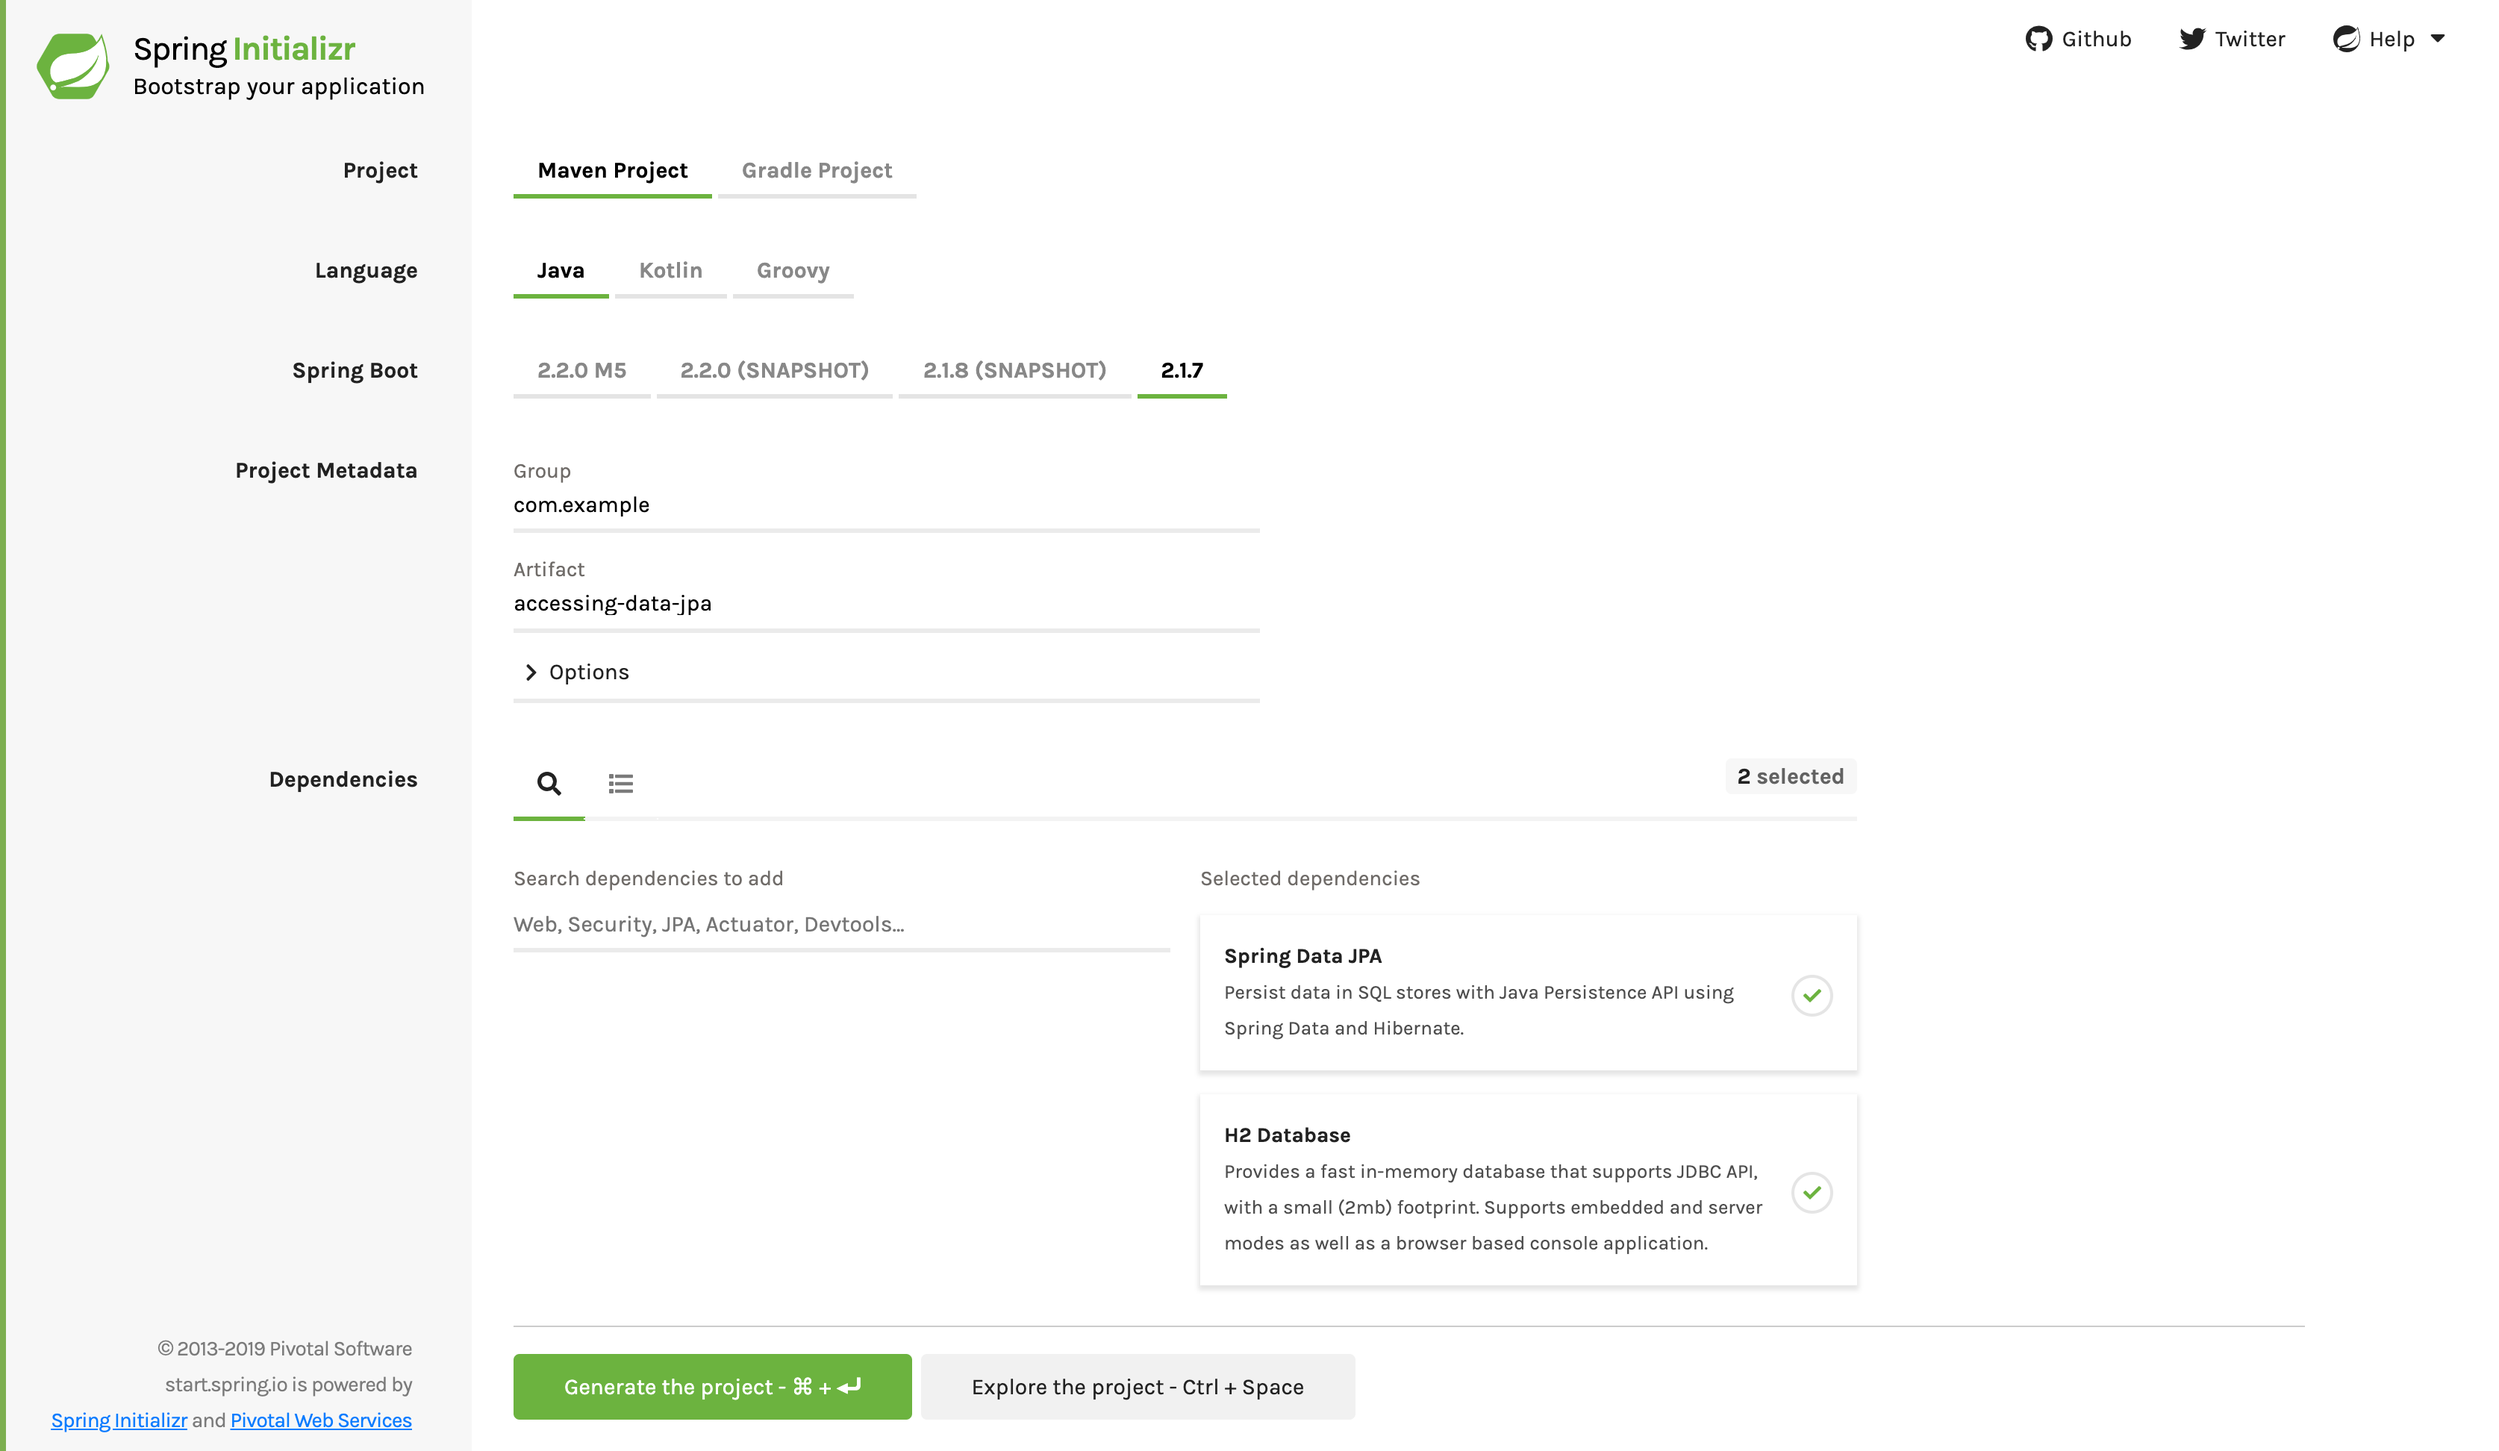
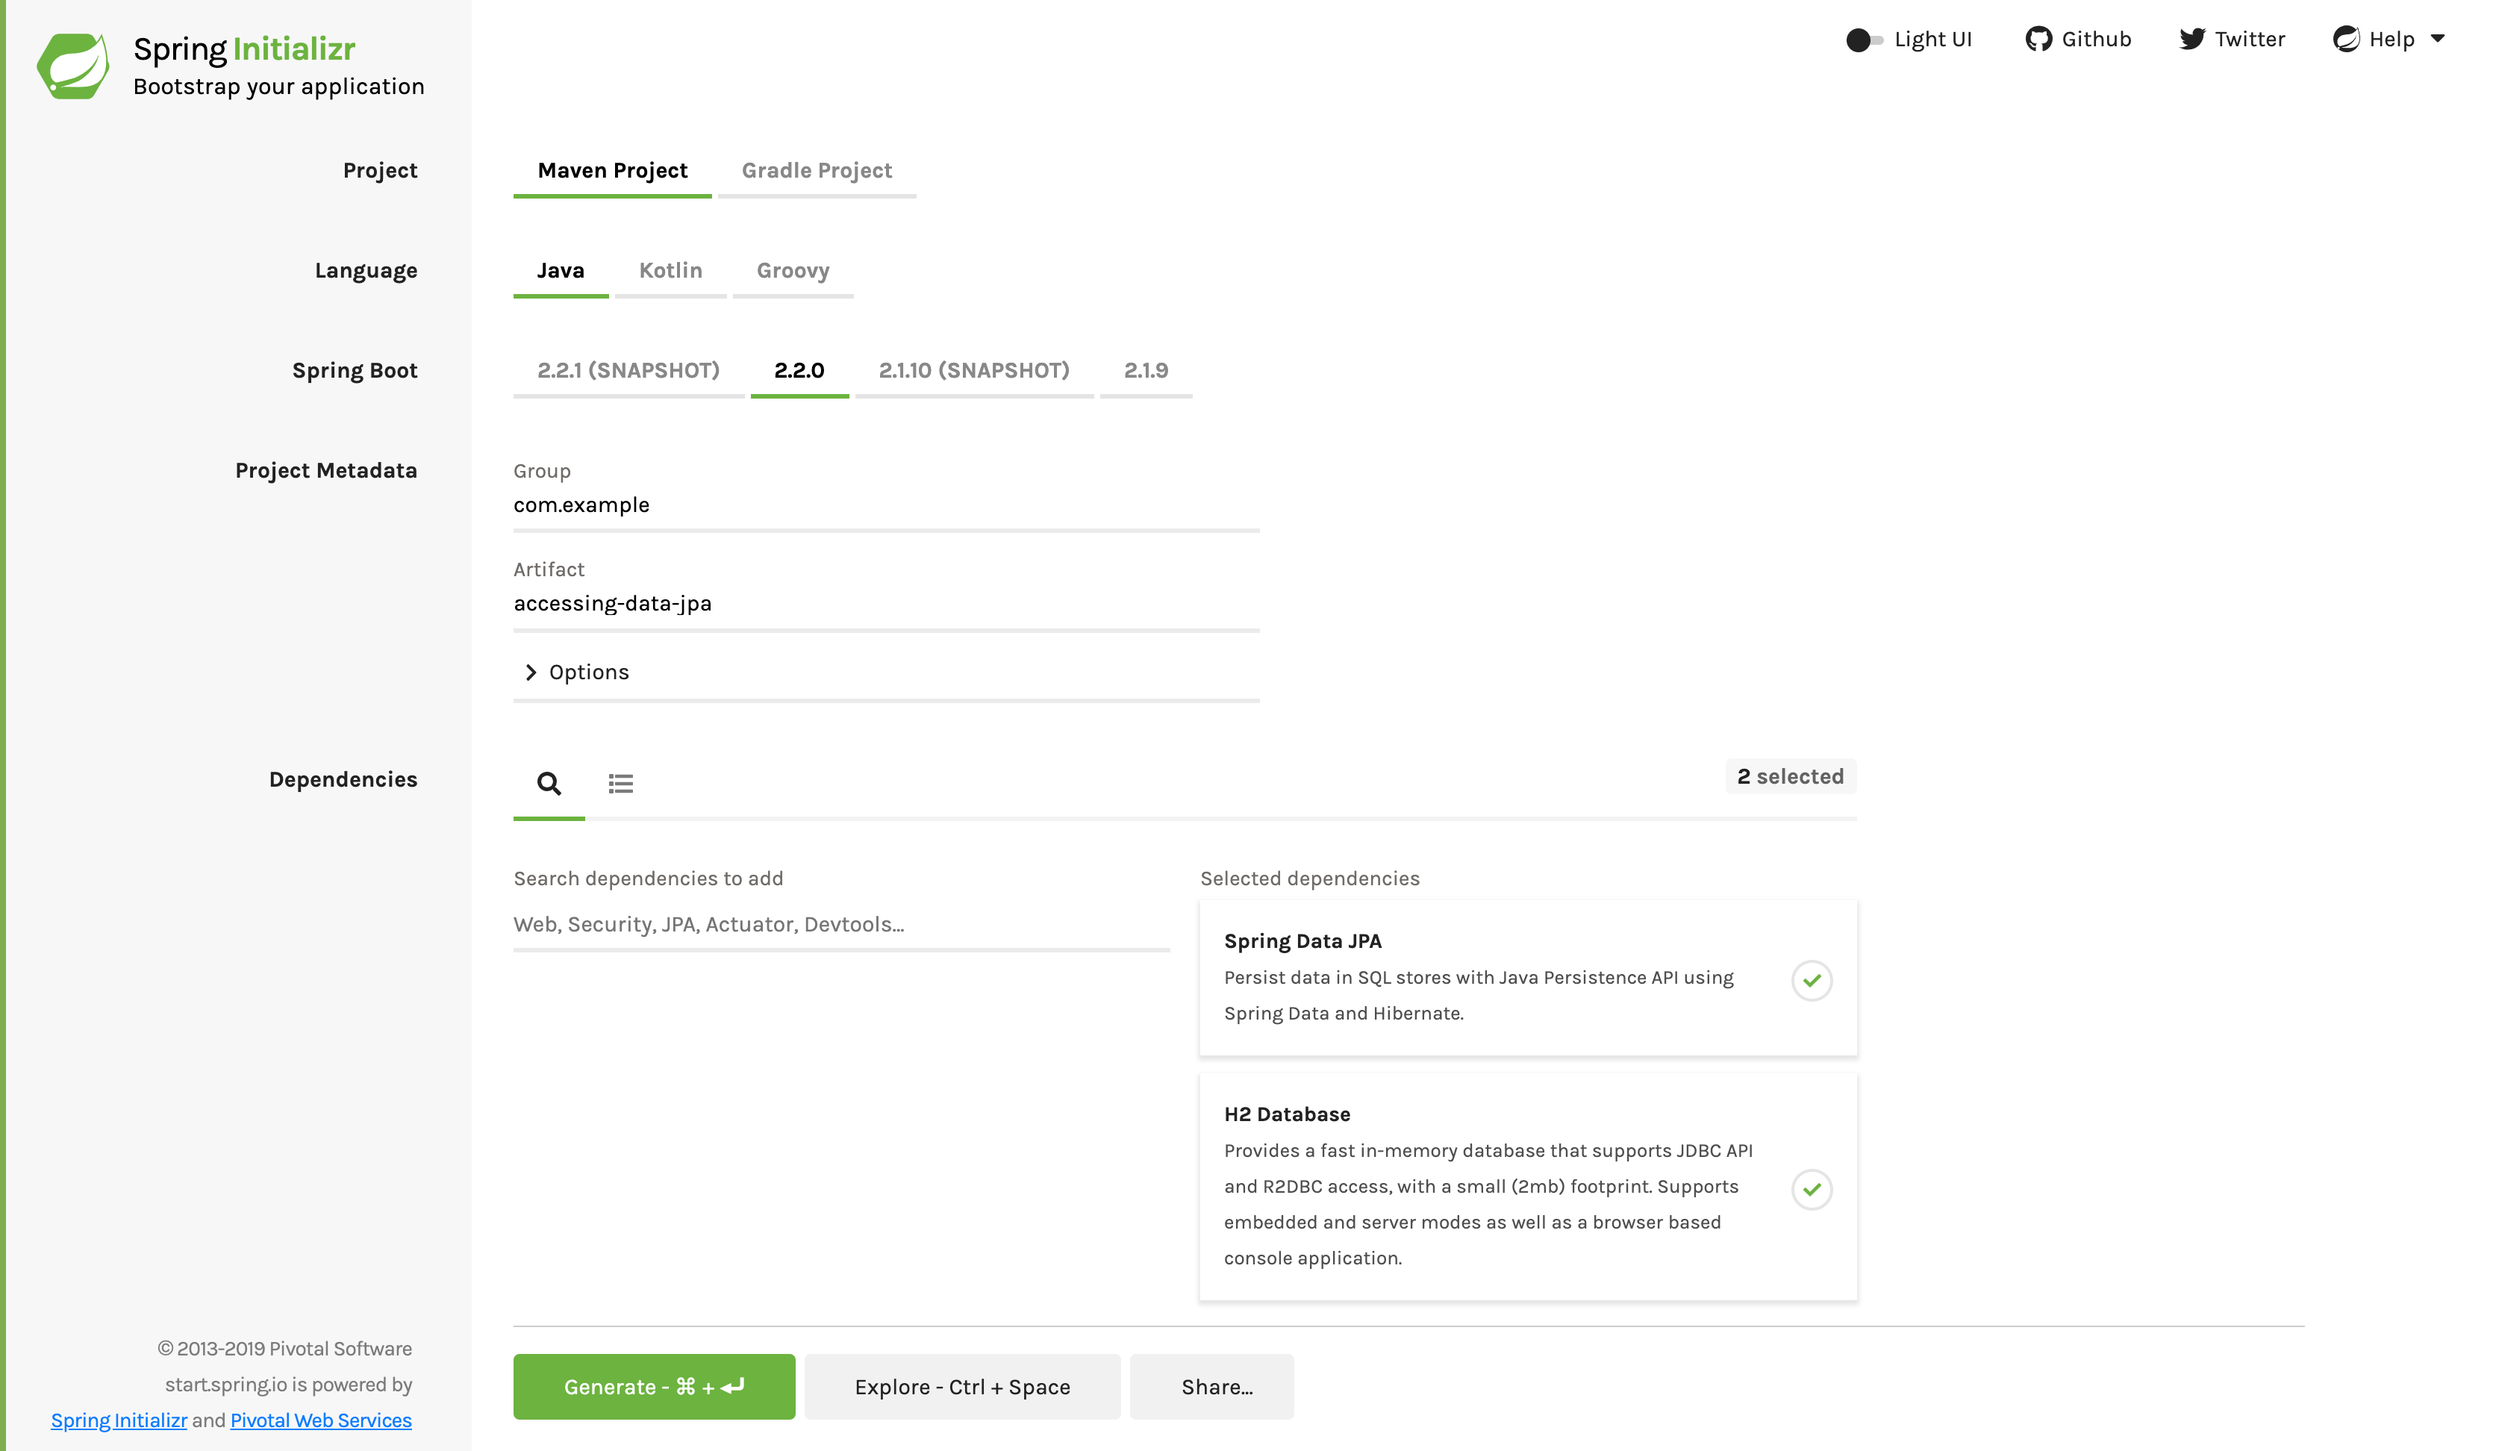
Upgrade to Spring Boot 2.2
I upgraded to Spring Boot 2.2, which necessitated upgrading to JUnit 5 and replacing the Gradle wrappers.

diff --git a/complete/src/test/java/com/example/accessingdatajpa/CustomerRepositoryTests.java b/complete/src/test/java/com/example/accessingdatajpa/CustomerRepositoryTests.java
@@ -20,14 +20,14 @@ import static org.assertj.core.api.Assertions.assertThat;
 
 import java.util.List;
 
-import org.junit.Test;
-import org.junit.runner.RunWith;
+import org.junit.jupiter.api.Test;
+import org.junit.jupiter.api.extension.ExtendWith;
+import org.springframework.test.context.junit.jupiter.SpringExtension;
 import org.springframework.beans.factory.annotation.Autowired;
 import org.springframework.boot.test.autoconfigure.orm.jpa.DataJpaTest;
 import org.springframework.boot.test.autoconfigure.orm.jpa.TestEntityManager;
-import org.springframework.test.context.junit4.SpringRunner;
 
-@RunWith(SpringRunner.class)
+@ExtendWith(SpringExtension.class)
 @DataJpaTest
 public class CustomerRepositoryTests {
 	@Autowired

diff --git a/initial/src/test/java/com/example/accessingdatajpa/AccessingDataJpaApplicationTests.java b/initial/src/test/java/com/example/accessingdatajpa/AccessingDataJpaApplicationTests.java
@@ -1,0 +1,13 @@
+package com.example.accessingdatajpa;
+
+import org.junit.jupiter.api.Test;
+import org.springframework.boot.test.context.SpringBootTest;
+
+@SpringBootTest
+class AccessingDataJpaApplicationTests {
+
+	@Test
+	void contextLoads() {
+	}
+
+}
